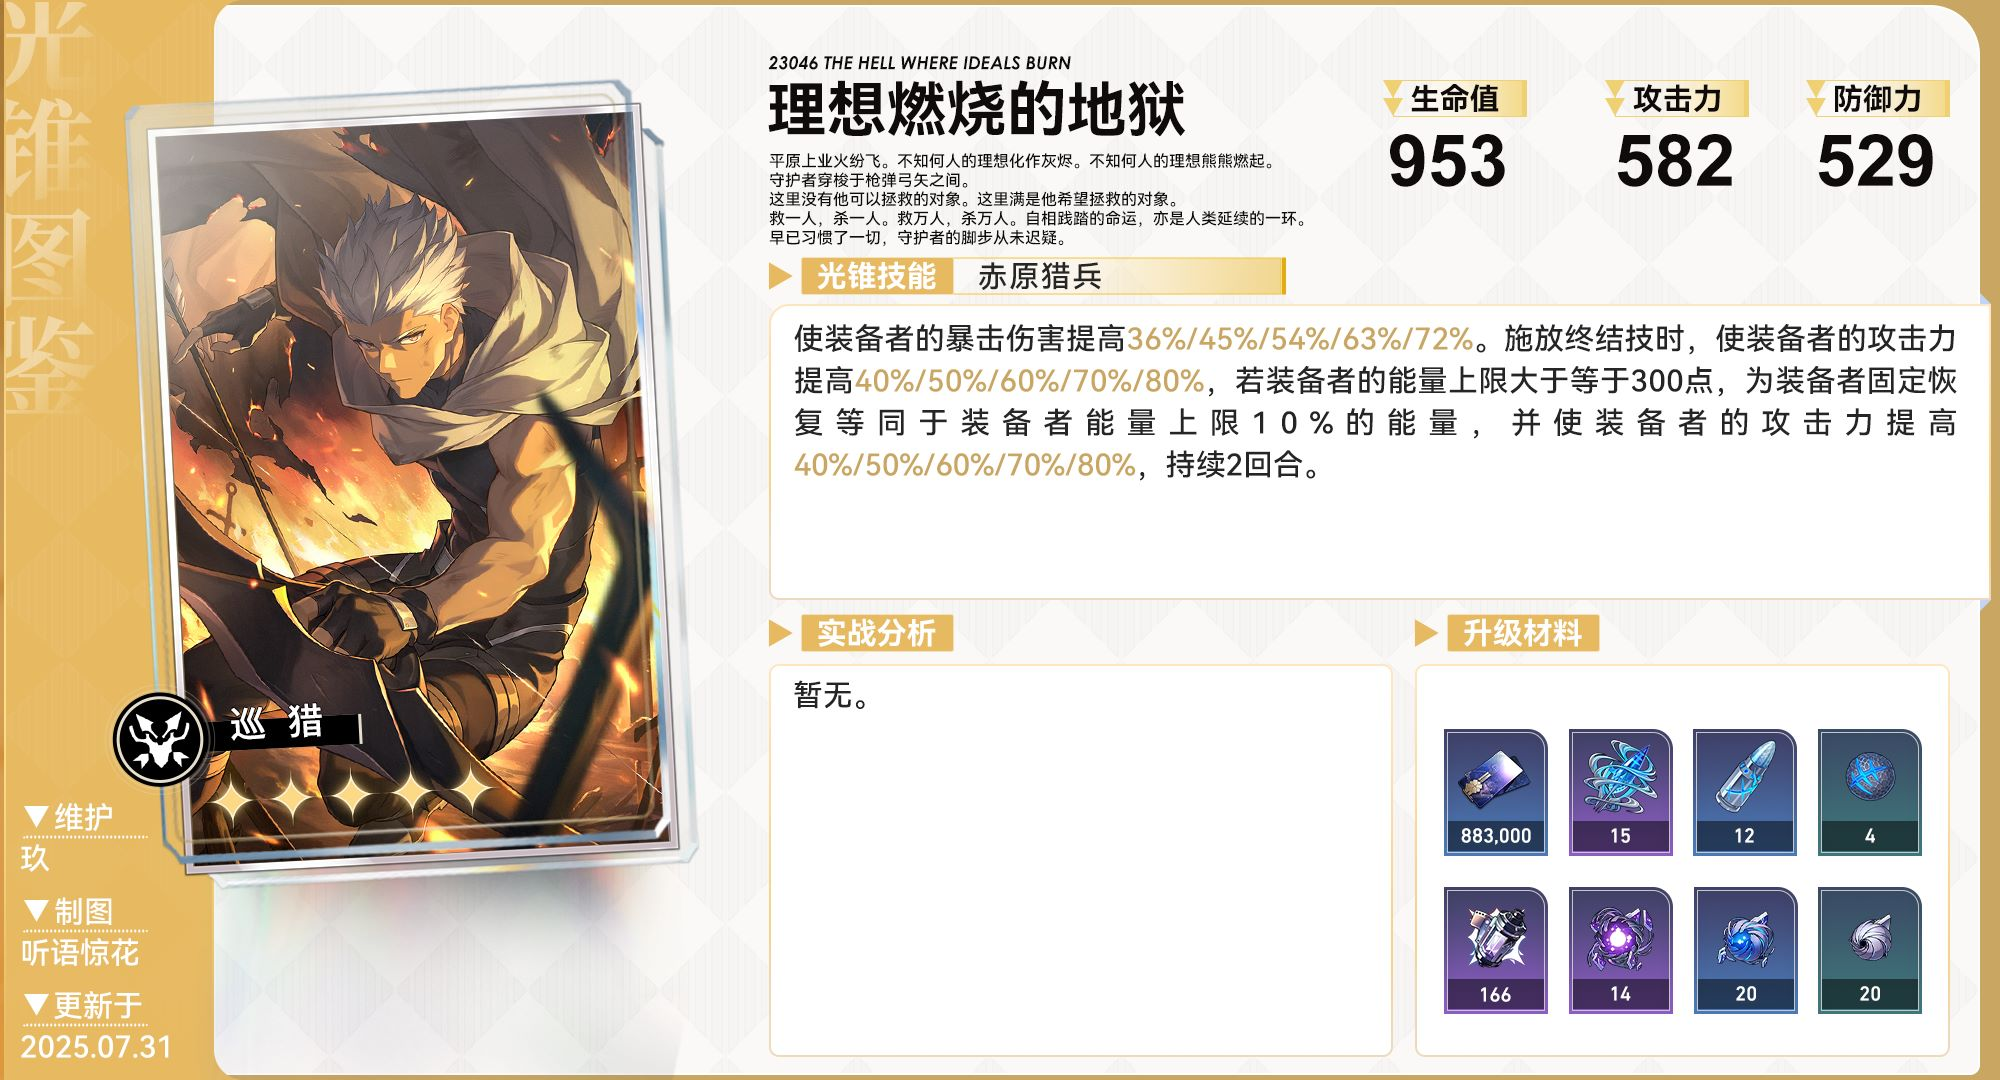
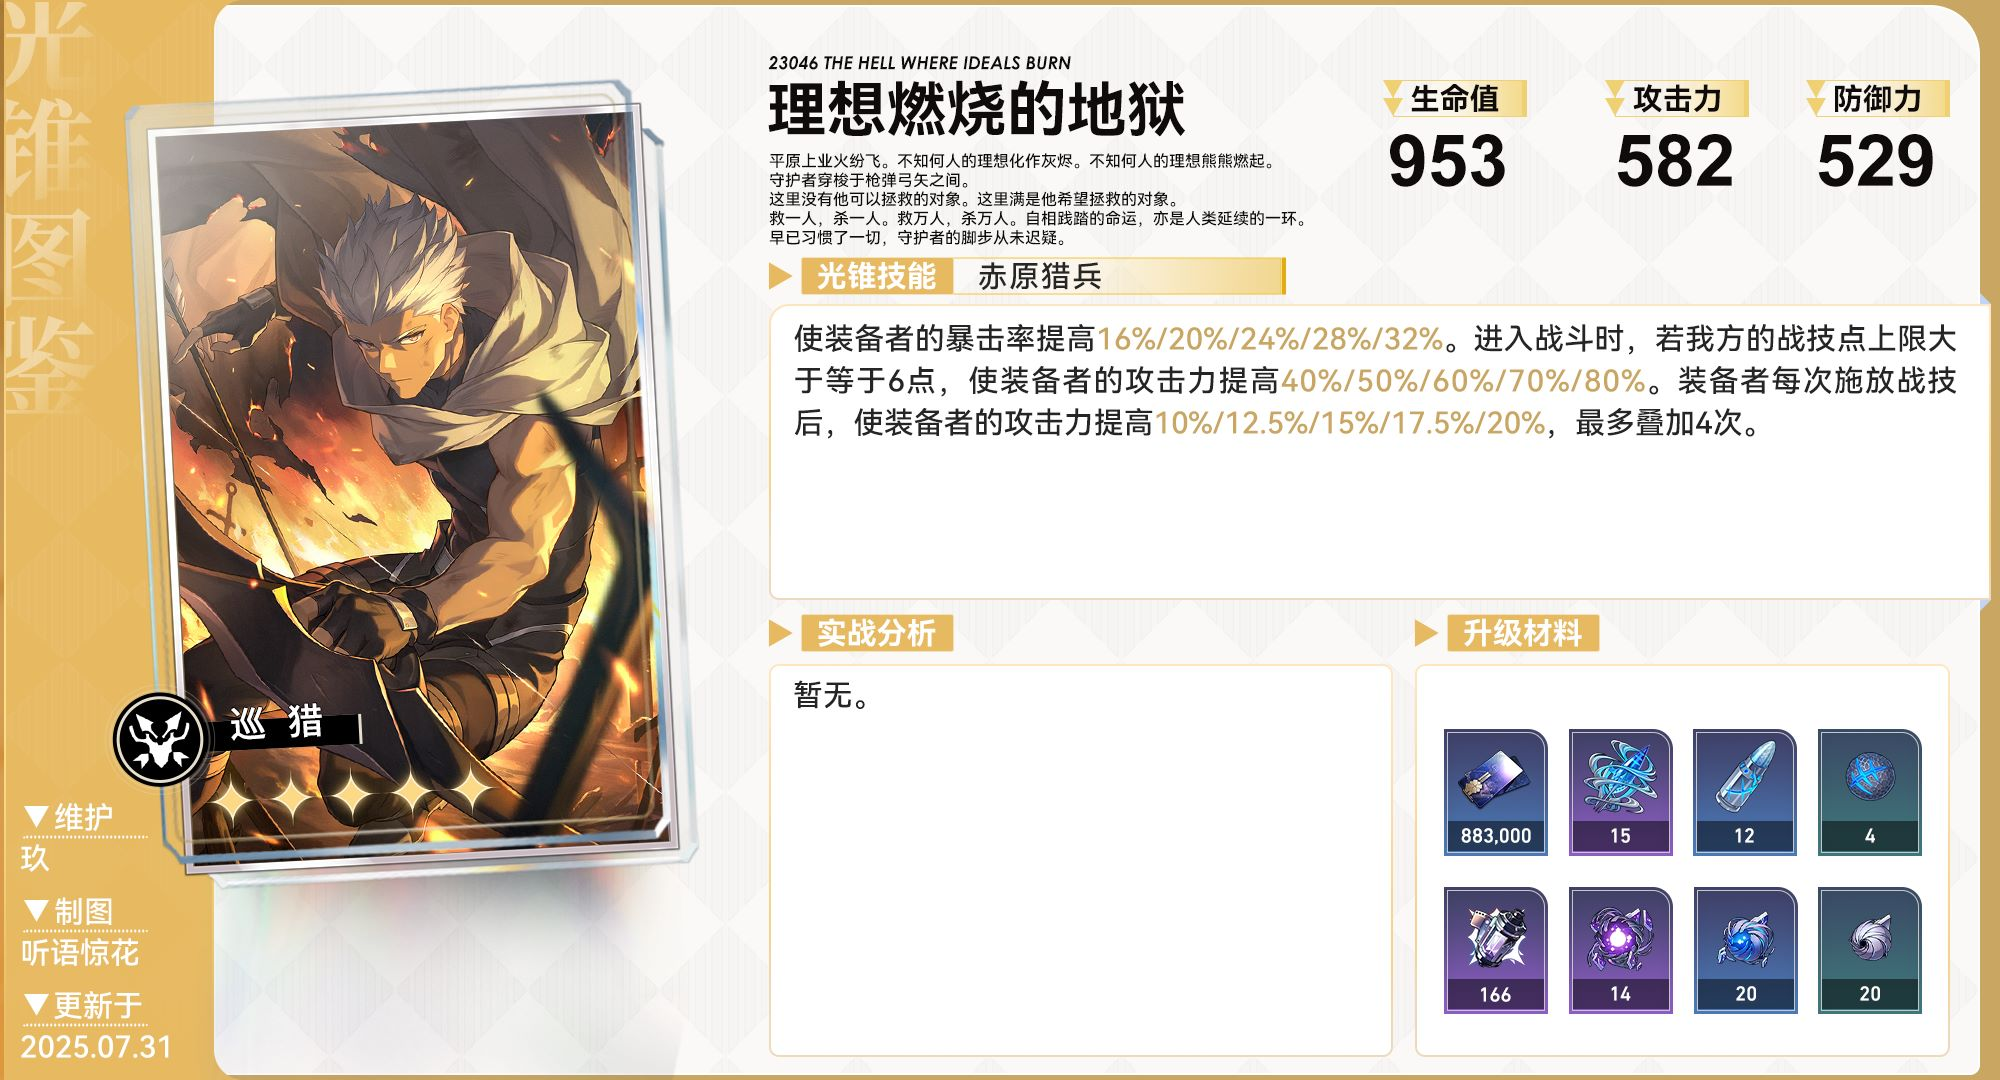
更新 3.7 相关图鉴

Changed region(s): [[0.403, 0.275, 0.992, 0.4583]]

diff --git a/README.md b/README.md
@@ -8,8 +8,8 @@ Star-Rail-Atlas是一个主要由[`米游社@听语惊花`](https://bbs.mihoyo.c
 ## 目录结构
 - [x] 角色图鉴（更新至2.7）
 - [x] 角色攻略（更新至2.3）
-- [x] 光锥图鉴（更新至3.5）
-- [x] 遗器图鉴（更新至3.5）
+- [x] 光锥图鉴（更新至3.7）
+- [x] 遗器图鉴（更新至3.7）
 - [ ] 奇物图鉴、祝福图鉴（可能不做了）
 
 注意：请使用根目录下的path.json来获取准确的完整目录。
